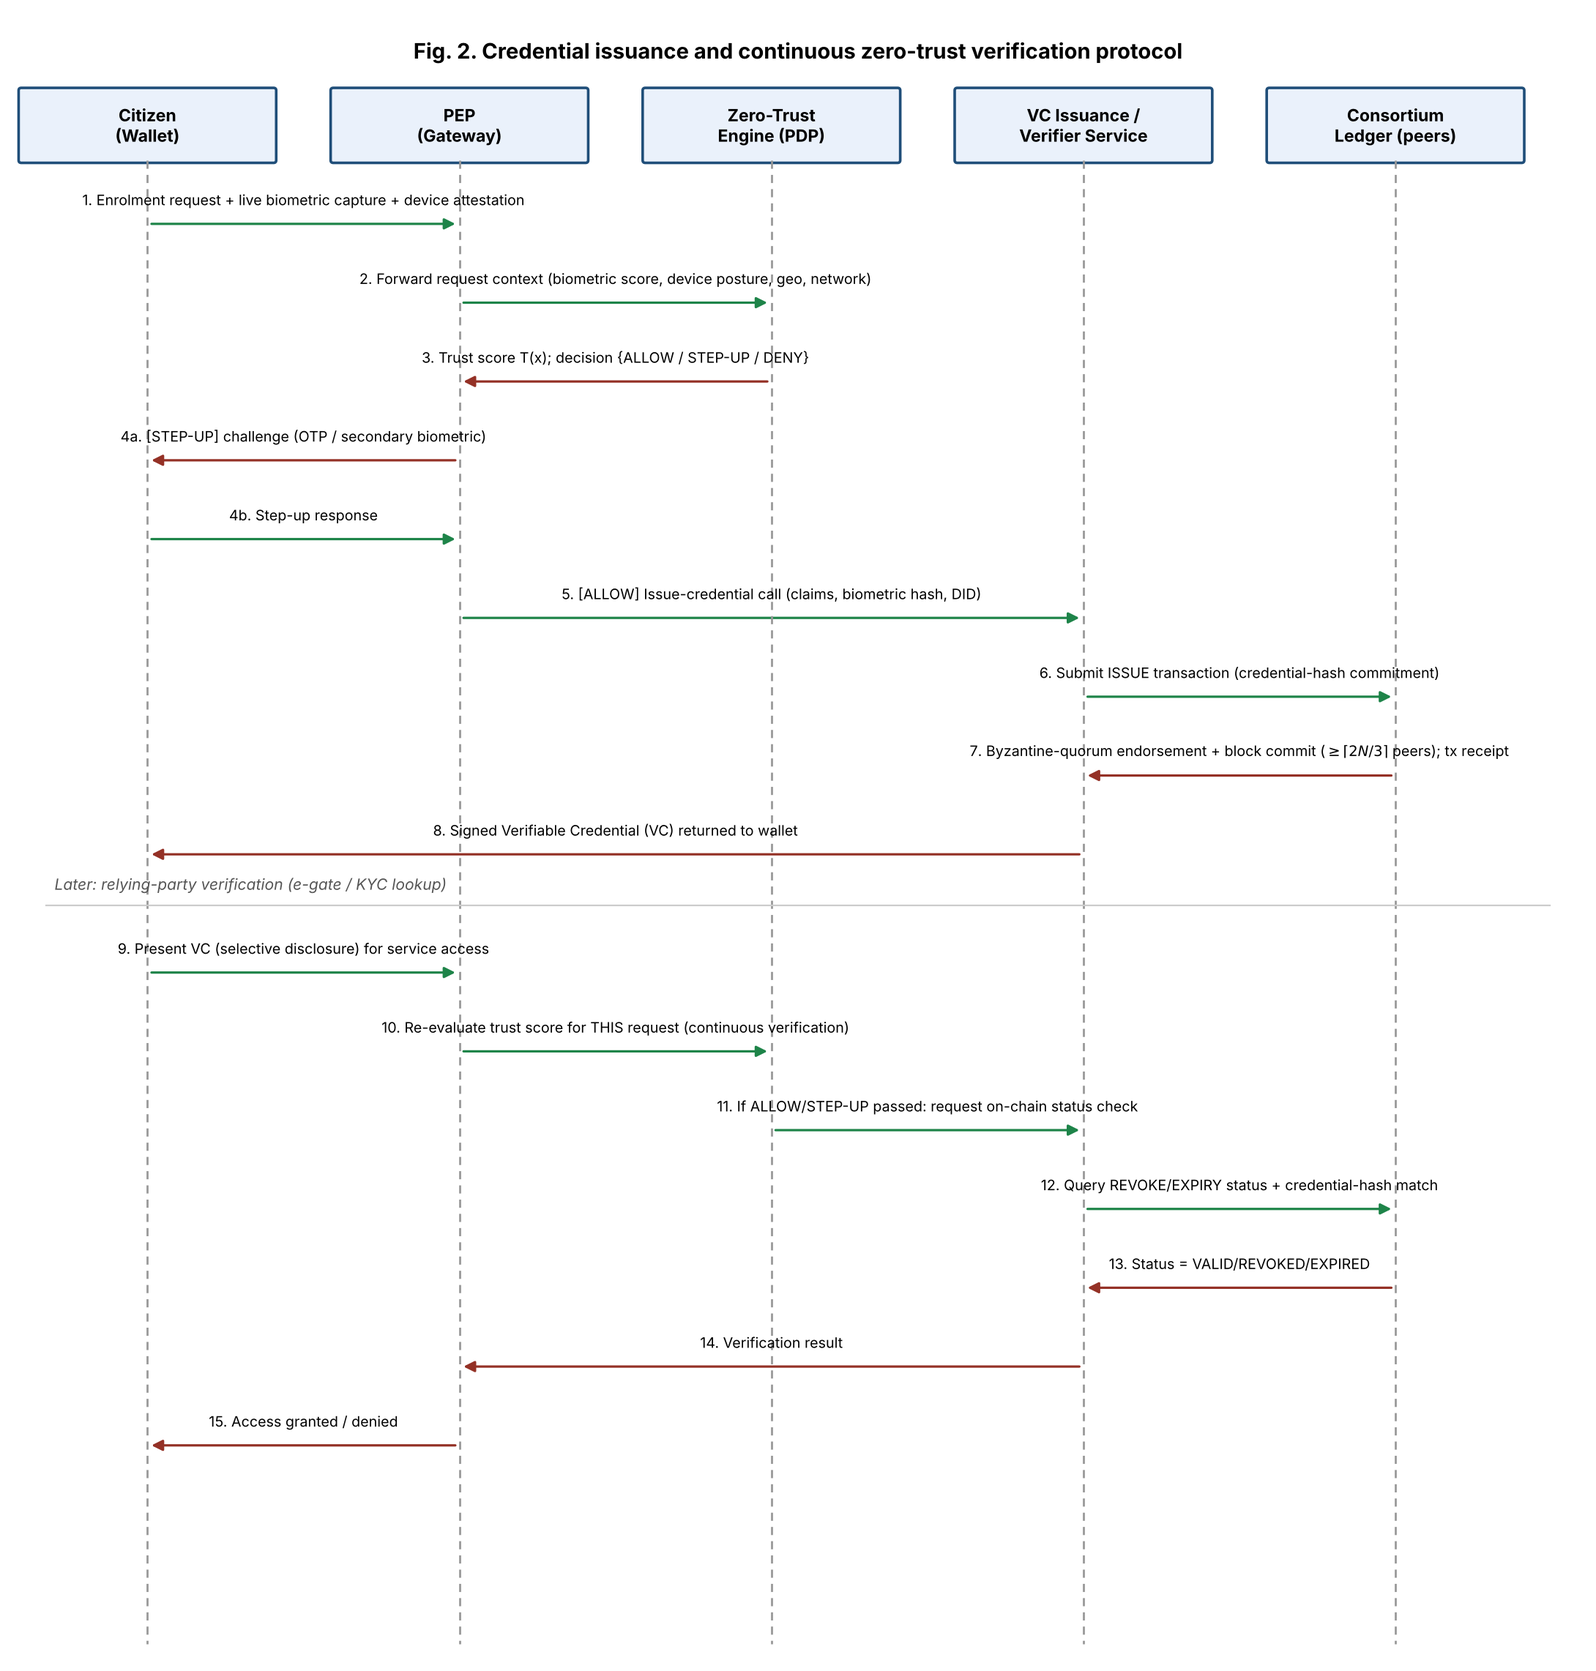
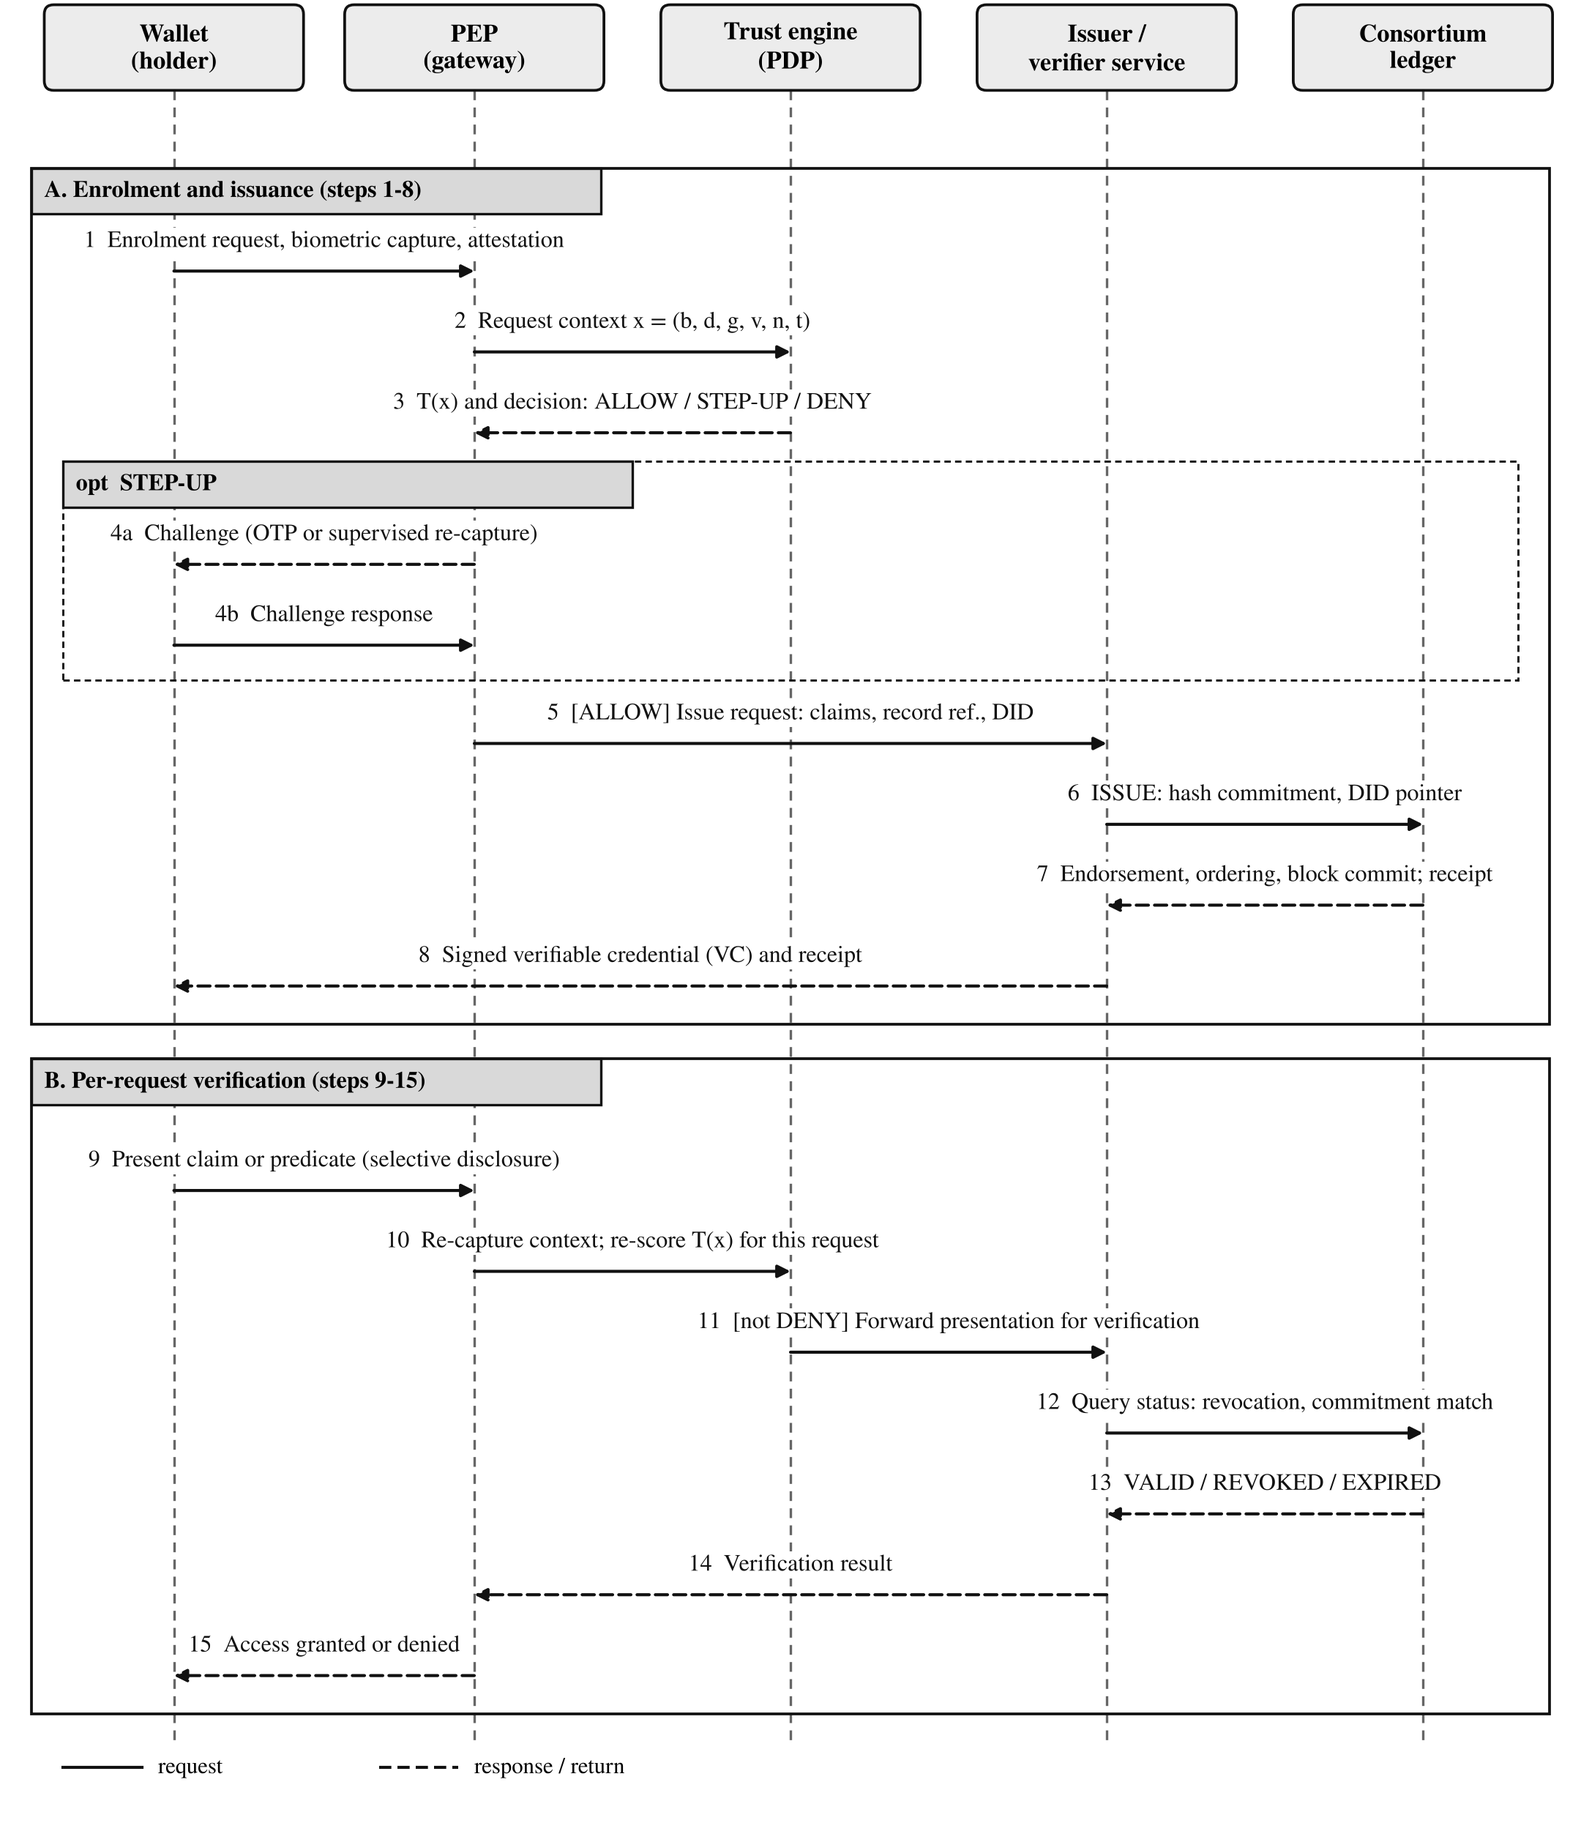
Redraw Fig. 1 and Fig. 2 in academic grayscale style
Claude-Session: https://claude.ai/code/session_01TBqWKFYaju92fTNdPFwbcp

diff --git a/code/fig1_architecture.py b/code/fig1_architecture.py
@@ -1,80 +1,65 @@
-import matplotlib
-matplotlib.use("Agg")
+"""Fig. 1: layered BZT-ID architecture (academic style: serif, grayscale, no embedded title).
+Solid border = implemented in the evaluated prototype (chaincode/ledger, trust-engine model); dashed = specified only."""
+import os, matplotlib; matplotlib.use("Agg")
 import matplotlib.pyplot as plt
-from matplotlib.patches import FancyBboxPatch, FancyArrowPatch
-import os
-
-OUT_FIG = os.path.join(os.path.dirname(__file__), "..", "figures")
-os.makedirs(OUT_FIG, exist_ok=True)
-
-fig, ax = plt.subplots(figsize=(11, 7.2), dpi=200)
-ax.set_xlim(0, 11)
-ax.set_ylim(0, 7.2)
-ax.axis("off")
-
-def box(x, y, w, h, text, fc="#eaf1fb", ec="#1f4e79", fontsize=8.6, weight="normal"):
-    b = FancyBboxPatch((x, y), w, h, boxstyle="round,pad=0.02,rounding_size=0.08",
-                        linewidth=1.3, edgecolor=ec, facecolor=fc)
-    ax.add_patch(b)
-    ax.text(x + w / 2, y + h / 2, text, ha="center", va="center", fontsize=fontsize,
-             weight=weight, wrap=True)
-    return (x, y, w, h)
-
-def arrow(p1, p2, text="", color="#333333", style="-|>", curve=0.0):
-    a = FancyArrowPatch(p1, p2, arrowstyle=style, mutation_scale=12,
-                         color=color, linewidth=1.1,
-                         connectionstyle=f"arc3,rad={curve}")
-    ax.add_patch(a)
-    if text:
-        mx, my = (p1[0] + p2[0]) / 2, (p1[1] + p2[1]) / 2
-        ax.text(mx, my + 0.10, text, fontsize=6.6, ha="center", color=color)
-
-# ---- Layer 1: Users / Devices ----
-ax.text(0.15, 6.95, "Layer 1 — Subject & Device", fontsize=9, weight="bold", color="#1f4e79")
-box(0.2, 6.05, 2.1, 0.7, "Citizen /\nOverseas applicant\n(mobile wallet)", fc="#fdf2e3", ec="#b9770e")
-box(2.55, 6.05, 2.1, 0.7, "Front-line officer\n(NADRA / DGIP\nterminal)", fc="#fdf2e3", ec="#b9770e")
-box(4.9, 6.05, 2.1, 0.7, "Relying-party service\n(bank / airline /\ne-gate)", fc="#fdf2e3", ec="#b9770e")
-box(7.25, 6.05, 3.55, 0.7, "IoT/biometric capture: fingerprint,\niris, face liveness sensors", fc="#fdf2e3", ec="#b9770e")
-
-# ---- Layer 2: Zero-Trust Policy Enforcement ----
-ax.text(0.15, 5.55, "Layer 2 — Zero-Trust Policy Enforcement (PEP/PDP)", fontsize=9, weight="bold", color="#1f4e79")
-box(0.2, 4.55, 3.35, 0.85, "Policy Enforcement Point (PEP)\nAPI gateway · mTLS · request context capture", fc="#eaf1fb")
-box(3.75, 4.55, 3.35, 0.85, "Continuous Trust Engine (PDP)\nBiometric, device, geo-velocity,\nbehaviour, network, time-risk fusion", fc="#eaf1fb")
-box(7.3, 4.55, 3.5, 0.85, "Policy Administrator\nRBAC/ABAC rules · step-up-auth\norchestration · SIEM feed", fc="#eaf1fb")
-
-# ---- Layer 3: DID / VC identity layer ----
-ax.text(0.15, 4.05, "Layer 3 — Decentralized Identity (DID / Verifiable Credential) Layer", fontsize=9, weight="bold", color="#1f4e79")
-box(0.2, 3.05, 2.6, 0.85, "DID Registry\n(W3C DID Core)\nsubject ↔ public-key doc", fc="#eafaf1", ec="#1e8449")
-box(3.0, 3.05, 2.9, 0.85, "VC Issuance Service\nCNIC / Passport / NICOP\ncredential templates", fc="#eafaf1", ec="#1e8449")
-box(6.1, 3.05, 2.4, 0.85, "Selective-Disclosure\nVerifier (ZKP)\nage/citizenship proofs", fc="#eafaf1", ec="#1e8449")
-box(8.7, 3.05, 2.1, 0.85, "Revocation\nRegistry\n(status list)", fc="#eafaf1", ec="#1e8449")
-
-# ---- Layer 4: Permissioned blockchain ----
-ax.text(0.15, 2.55, "Layer 4 — Permissioned Consortium Blockchain (Hyperledger-Fabric-style, PBFT)", fontsize=9, weight="bold", color="#1f4e79")
-box(0.2, 1.15, 2.15, 1.15, "NADRA\nRegistrar peer\n+ CA/MSP", fc="#fdecea", ec="#943126")
-box(2.5, 1.15, 2.15, 1.15, "DGIP Passport\nDirectorate peer\n+ CA/MSP", fc="#fdecea", ec="#943126")
-box(4.8, 1.15, 2.15, 1.15, "Bank / Telecom\nKYC notary peer", fc="#fdecea", ec="#943126")
-box(7.1, 1.15, 2.15, 1.15, "Independent\naudit / regulator\npeer (SBP/PTA)", fc="#fdecea", ec="#943126")
-box(9.4, 1.15, 1.4, 1.15, "Ordering\nservice\n(Raft/PBFT)", fc="#fdecea", ec="#943126")
-
-# ---- Off-chain encrypted store ----
-box(0.2, 0.1, 4.1, 0.75, "Off-chain encrypted vault (IPFS/HSM)\nraw biometrics & PII — never written on-chain", fc="#f4ecf7", ec="#6c3483")
-box(4.5, 0.1, 6.3, 0.75, "On-chain: only DID pointers, credential-hash commitments, issuance/verify/revoke events, audit trail (immutable)", fc="#f4ecf7", ec="#6c3483")
-
-# ---- arrows ----
-arrow((1.25, 6.05), (1.9, 5.4), "request + biometric capture")
-arrow((3.6, 6.05), (4.5, 5.4))
-arrow((6.0, 6.05), (5.4, 5.4))
-arrow((5.4, 4.55), (5.4, 3.9), "trust score / decision")
-arrow((4.4, 3.05), (2.0, 2.3), "issue tx")
-arrow((7.3, 3.05), (7.9, 2.3), "verify tx")
-arrow((8.9, 3.05), (8.9, 2.3), "revoke tx")
-arrow((1.3, 1.15), (1.6, 0.85), "")
-arrow((6.0, 1.15), (6.0, 0.85), "")
-
-ax.text(5.5, 7.08, "Fig. 1. Layered architecture of the proposed BZT-ID system", ha="center",
-        fontsize=10.5, weight="bold")
-
-fig.tight_layout()
-fig.savefig(os.path.join(OUT_FIG, "fig1_architecture.png"), bbox_inches="tight")
-print("saved fig1_architecture.png")
+from matplotlib.patches import FancyBboxPatch, FancyArrowPatch, Rectangle
+plt.rcParams.update({"font.family": "STIXGeneral", "mathtext.fontset": "stix", "font.size": 8})
+OUT = os.path.join(os.path.dirname(__file__), "..", "figures", "fig1_architecture.png")
+fig = plt.figure(figsize=(7.2, 6.55)); ax = fig.add_axes([0, 0, 1, 1]); ax.set_xlim(0, 100); ax.set_ylim(0, 91); ax.axis("off")
+INK = "#111111"
+def box(x, y, w, h, text, fill="#ffffff", dashed=False, fs=7.6, bold_first=True):
+    ax.add_patch(FancyBboxPatch((x, y), w, h, boxstyle="round,pad=0,rounding_size=0.8", fc=fill, ec=INK, lw=0.9, ls=(0, (3, 2)) if dashed else "-"))
+    lines = text.split("\n")
+    n = len(lines); lh = 2.45
+    for i, t in enumerate(lines):
+        ax.text(x + w / 2, y + h / 2 + (n / 2 - i - 0.5) * lh, t, ha="center", va="center", fontsize=fs, color=INK,
+                fontweight="bold" if (i == 0 and bold_first) else "normal")
+def band(y, h, num, name, fill):
+    ax.add_patch(Rectangle((0.5, y), 99, h, fc=fill, ec="#777777", lw=0.6))
+    ax.add_patch(Rectangle((0.5, y), 6.2, h, fc="#2b2b2b", ec="#2b2b2b"))
+    ax.text(3.6, y + h / 2, f"Layer {num}\n{name}", rotation=90, ha="center", va="center", color="white", fontsize=7.2, fontweight="bold", linespacing=1.15)
+def arrow(x0, y0, x1, y1, label=None, lx=1.2, ha="left", ls="-", fs=7.2):
+    ax.add_patch(FancyArrowPatch((x0, y0), (x1, y1), arrowstyle="-|>", mutation_scale=9, lw=1.0, color=INK, ls=ls, shrinkA=0, shrinkB=0))
+    if label: ax.text((x0 + x1) / 2 + lx, (y0 + y1) / 2, label, ha=ha, va="center", fontsize=fs, style="italic", color=INK)
+# ---- bands
+band(71.5, 15, 1, "Subject/device", "#f4f4f4")
+band(52.5, 15, 2, "Zero trust", "#e9e9e9")
+band(33.5, 15, 3, "DID / VC", "#f4f4f4")
+band(12.5, 17.5, 4, "Ledger", "#e1e1e1")
+# Layer 1
+x0, w, g = 8.6, 21.3, 1.9
+for i, t in enumerate(["Citizen / overseas holder\nmobile wallet, local biometric\ncapture, DID keys",
+                       "Front-line officer\nNADRA / DGIP terminal",
+                       "Relying party\nbank, telecom, airline,\ne-gate",
+                       "Capture sensors\nfingerprint, iris, face\n(liveness)"]):
+    box(x0 + i * (w + g), 73.2, w, 11.6, t, "#ffffff")
+# Layer 2
+box(8.6, 54.2, 27, 11.6, "Policy Enforcement Point\nAPI gateway, mutual TLS,\nrequest-context capture", "#ffffff", dashed=True)
+box(39.1, 54.2, 28.6, 11.6, "Continuous Trust Engine (PDP)\n$T(x)=\\Sigma_k\\,w_k c_k(x)$, six factors:\nbiometric, device, geo, behaviour,\nnetwork, time", "#ffffff")
+box(71.2, 54.2, 28, 11.6, "Policy Administrator\nthresholds, step-up\norchestration (OTP, re-capture)", "#ffffff", dashed=True)
+arrow(35.6, 61.2, 39.1, 61.2); arrow(39.1, 58.0, 35.6, 58.0); arrow(71.2, 59.6, 67.7, 59.6)
+# Layer 3
+for i, t in enumerate(["DID Registry\nW3C DID Core\nDID to public-key document", "VC Issuance Service\nCNIC / NICOP / passport\ncredential templates",
+                       "Selective-Disclosure Verifier\nBBS+ / zero-knowledge\npredicate proofs", "Revocation Registry\nbitstring status list\n(target design)"]):
+    box(x0 + i * (w + g), 35.2, w, 11.6, t, "#ffffff", dashed=True)
+# Layer 4
+bw, bg = 17.0, 1.55
+for i, (t, d) in enumerate([("NADRA\nregistrar peer\nMSP / CA", False), ("DGIP\npassport peer\nMSP / CA", False), ("Notary peers\nbanks, telecoms\n(KYC)", False),
+                            ("Audit peers\nregulators\n(e.g. SBP, PTA)", False), ("Ordering service\nRaft (tested), SmartBFT\n(N ≥ 4)", False)]):
+    box(8.6 + i * (bw + bg), 14.2, bw, 14.2, t, "#ffffff")
+# ---- inter-layer arrows
+arrow(21.0, 73.2, 21.0, 65.8, "requests + biometric capture", lx=1.0)
+arrow(54.05, 54.2, 54.05, 46.8, "ALLOW / STEP-UP / DENY gates credential operations", lx=1.0)
+arrow(54.05, 35.2, 54.05, 28.4, "issue / verify / revoke transactions", lx=1.0)
+# ---- data minimisation row
+ax.plot([0.5, 99.5], [10.4, 10.4], color="#555555", lw=0.8, ls=(0, (4, 3)))
+ax.text(50, 11.35, "on-chain / off-chain data-minimization boundary", ha="center", va="center", fontsize=7.2, style="italic", color="#333333")
+box(0.5, 0.8, 47, 8.2, "Off-chain encrypted vault (HSM-backed)\nraw biometrics and PII; never written on-chain", "#ffffff", dashed=True)
+box(52.5, 0.8, 47, 8.2, "On-chain ledger state\nDID pointers, salted claim commitments, lifecycle events", "#ffffff")
+arrow(76, 12.5, 76, 9.0)
+# legend
+ax.add_patch(FancyBboxPatch((8.6, 88.4), 3.2, 1.8, boxstyle="round,pad=0,rounding_size=0.3", fc="white", ec=INK, lw=0.9))
+ax.text(12.6, 89.3, "implemented in the evaluated prototype", va="center", fontsize=7.2)
+ax.add_patch(FancyBboxPatch((46.5, 88.4), 3.2, 1.8, boxstyle="round,pad=0,rounding_size=0.3", fc="white", ec=INK, lw=0.9, ls=(0, (3, 2))))
+ax.text(50.5, 89.3, "specified in the design, not built as an integrated service", va="center", fontsize=7.2)
+fig.savefig(OUT, dpi=300, facecolor="white"); print("wrote", OUT)

diff --git a/code/fig2_sequence.py b/code/fig2_sequence.py
@@ -1,85 +1,64 @@
-import matplotlib
-matplotlib.use("Agg")
+"""Fig. 2: credential issuance and per-request zero-trust verification (academic style: serif, grayscale, no embedded title)."""
+import os, matplotlib; matplotlib.use("Agg")
 import matplotlib.pyplot as plt
-from matplotlib.patches import FancyBboxPatch, FancyArrowPatch
-import os
-
-OUT_FIG = os.path.join(os.path.dirname(__file__), "..", "figures")
-os.makedirs(OUT_FIG, exist_ok=True)
-
-actors = ["Citizen\n(Wallet)", "PEP\n(Gateway)", "Zero-Trust\nEngine (PDP)", "VC Issuance /\nVerifier Service", "Consortium\nLedger (peers)"]
-n = len(actors)
-ROW_H = 0.62
-N_MSGS_TOTAL = 9 + 7  # message blocks defined below
-top = 1.0 + ROW_H * N_MSGS_TOTAL + 1.6
-bottom = 0.5
-fig, ax = plt.subplots(figsize=(11, top * 0.92), dpi=200)
-xs = [1 + i * 2.35 for i in range(n)]
-
-ax.set_xlim(0, xs[-1] + 1.4)
-ax.set_ylim(bottom - 0.3, top + 0.6)
-ax.axis("off")
-
-for x, name in zip(xs, actors):
-    b = FancyBboxPatch((x - 0.95, top - 0.55), 1.9, 0.55, boxstyle="round,pad=0.02",
-                        linewidth=1.3, edgecolor="#1f4e79", facecolor="#eaf1fb")
-    ax.add_patch(b)
-    ax.text(x, top - 0.275, name, ha="center", va="center", fontsize=8.3, weight="bold")
-    ax.plot([x, x], [top - 0.55, bottom - 0.2], color="#999999", linewidth=1, linestyle=(0, (4, 3)))
-
-messages = [
-    (0, 1, "1. Enrolment request + live biometric capture + device attestation"),
-    (1, 2, "2. Forward request context (biometric score, device posture, geo, network)"),
-    (2, 1, "3. Trust score T(x); decision {ALLOW / STEP-UP / DENY}"),
-    (1, 0, "4a. [STEP-UP] challenge (OTP / secondary biometric)"),
-    (0, 1, "4b. Step-up response"),
-    (1, 3, "5. [ALLOW] Issue-credential call (claims, biometric hash, DID)"),
-    (3, 4, "6. Submit ISSUE transaction (credential-hash commitment)"),
-    (4, 3, "7. Byzantine-quorum endorsement + block commit ($\\geq\\lceil2N/3\\rceil$ peers); tx receipt"),
-    (3, 0, "8. Signed Verifiable Credential (VC) returned to wallet"),
-]
-
-y = top - 1.05
-step_h = ROW_H
-for (src, dst, text) in messages:
-    x1, x2 = xs[src], xs[dst]
-    color = "#1e8449" if dst > src else "#943126"
-    arr = FancyArrowPatch((x1, y), (x2, y), arrowstyle="-|>", mutation_scale=11,
-                           color=color, linewidth=1.15)
-    ax.add_patch(arr)
-    mx = (x1 + x2) / 2
-    ax.text(mx, y + 0.12, text, ha="center", va="bottom", fontsize=7.1)
-    y -= step_h
-
-# Post-issuance verification / relying-party flow (second phase)
-ax.axhline(y + step_h * 0.35, color="#cccccc", linewidth=0.8, xmin=0.02, xmax=0.98)
-ax.text(0.3, y + step_h * 0.55, "Later: relying-party verification (e-gate / KYC lookup)", fontsize=7.6,
-         style="italic", color="#555555")
-
-messages2 = [
-    (0, 1, "9. Present VC (selective disclosure) for service access"),
-    (1, 2, "10. Re-evaluate trust score for THIS request (continuous verification)"),
-    (2, 3, "11. If ALLOW/STEP-UP passed: request on-chain status check"),
-    (3, 4, "12. Query REVOKE/EXPIRY status + credential-hash match"),
-    (4, 3, "13. Status = VALID/REVOKED/EXPIRED"),
-    (3, 1, "14. Verification result"),
-    (1, 0, "15. Access granted / denied"),
-]
-y -= step_h * 0.5
-step_h2 = ROW_H
-for (src, dst, text) in messages2:
-    x1, x2 = xs[src], xs[dst]
-    color = "#1e8449" if dst > src else "#943126"
-    arr = FancyArrowPatch((x1, y), (x2, y), arrowstyle="-|>", mutation_scale=11,
-                           color=color, linewidth=1.15)
-    ax.add_patch(arr)
-    mx = (x1 + x2) / 2
-    ax.text(mx, y + 0.12, text, ha="center", va="bottom", fontsize=7.1)
-    y -= step_h2
-
-ax.text(xs[-1] / 2 + 0.7, top + 0.25, "Fig. 2. Credential issuance and continuous zero-trust verification protocol",
-        ha="center", fontsize=10.5, weight="bold")
-
-fig.tight_layout()
-fig.savefig(os.path.join(OUT_FIG, "fig2_sequence.png"), bbox_inches="tight")
-print("saved fig2_sequence.png")
+from matplotlib.patches import FancyBboxPatch, FancyArrowPatch, Rectangle
+plt.rcParams.update({"font.family": "STIXGeneral", "mathtext.fontset": "stix", "font.size": 8})
+OUT = os.path.join(os.path.dirname(__file__), "..", "figures", "fig2_sequence.png")
+INK = "#111111"
+fig = plt.figure(figsize=(7.2, 8.3)); ax = fig.add_axes([0, 0, 1, 1]); ax.set_xlim(0, 100); ax.set_ylim(-4, 111); ax.axis("off")
+P = {"W": 11, "E": 30, "D": 50, "I": 70, "L": 90}
+names = {"W": "Wallet\n(holder)", "E": "PEP\n(gateway)", "D": "Trust engine\n(PDP)", "I": "Issuer /\nverifier service", "L": "Consortium\nledger"}
+top, bot = 105.5, -2.0
+for k, x in P.items():
+    ax.add_patch(FancyBboxPatch((x - 8.2, top - 0.2), 16.4, 5.4, boxstyle="round,pad=0,rounding_size=0.6", fc="#ececec", ec=INK, lw=0.9))
+    ax.text(x, top + 2.5, names[k], ha="center", va="center", fontsize=8.2, fontweight="bold", linespacing=1.15)
+    ax.plot([x, x], [top - 0.2, bot], color="#666666", lw=0.8, ls=(0, (4, 3)), zorder=0)
+y = [top - 3.5]
+def msg(a, b, n, text, ret=False, dy=5.1):
+    y[0] -= dy
+    yy = y[0]
+    xa, xb = P[a], P[b]
+    ax.add_patch(FancyArrowPatch((xa, yy), (xb, yy), arrowstyle="-|>", mutation_scale=8.5, lw=1.0, color=INK, ls=(0, (4, 2)) if ret else "-", shrinkA=0, shrinkB=0, zorder=3))
+    mx = (xa + xb) / 2
+    ax.text(mx, yy + 1.15, f"{n}  {text}", ha="center", va="bottom", fontsize=7.7, color=INK, bbox=dict(fc="white", ec="none", pad=0.6), zorder=4)
+def frame(y0, y1, label, x0=2, x1=98, fill="none", lw=0.9, ls="-"):
+    ax.add_patch(Rectangle((x0, y1), x1 - x0, y0 - y1, fc=fill, ec=INK, lw=lw, ls=ls, zorder=1))
+    ax.add_patch(Rectangle((x0, y0 - 2.9), 15.5 if len(label) < 12 else 36, 2.9, fc="#d9d9d9", ec=INK, lw=0.8, zorder=2))
+    ax.text(x0 + 0.8, y0 - 1.45, label, ha="left", va="center", fontsize=7.7, fontweight="bold", zorder=3)
+# ---------------- Phase A
+yA0 = y[0] - 1.6
+y[0] -= 3.0
+msg("W", "E", "1", "Enrolment request, biometric capture, attestation")
+msg("E", "D", "2", "Request context x = (b, d, g, v, n, t)")
+msg("D", "E", "3", "T(x) and decision: ALLOW / STEP-UP / DENY", ret=True)
+yo0 = y[0] - 1.8
+y[0] -= 3.2
+msg("E", "W", "4a", "Challenge (OTP or supervised re-capture)", ret=True)
+msg("W", "E", "4b", "Challenge response")
+yo1 = y[0] - 2.2
+msg("E", "I", "5", "[ALLOW] Issue request: claims, record ref., DID", dy=6.2)
+msg("I", "L", "6", "ISSUE: hash commitment, DID pointer")
+msg("L", "I", "7", "Endorsement, ordering, block commit; receipt", ret=True)
+msg("I", "W", "8", "Signed verifiable credential (VC) and receipt", ret=True)
+yA1 = y[0] - 2.4
+frame(yA0, yA1, "A. Enrolment and issuance (steps 1-8)")
+frame(yo0, yo1, "opt  STEP-UP", x0=4, x1=96, fill="none", lw=0.7, ls=(0, (3, 2)))
+# ---------------- Phase B
+y[0] = yA1 - 3.2
+yB0 = y[0] + 1.0
+y[0] -= 2.2
+msg("W", "E", "9", "Present claim or predicate (selective disclosure)")
+msg("E", "D", "10", "Re-capture context; re-score T(x) for this request")
+msg("D", "I", "11", "[not DENY] Forward presentation for verification")
+msg("I", "L", "12", "Query status: revocation, commitment match")
+msg("L", "I", "13", "VALID / REVOKED / EXPIRED", ret=True)
+msg("I", "E", "14", "Verification result", ret=True)
+msg("E", "W", "15", "Access granted or denied", ret=True)
+yB1 = y[0] - 2.4
+frame(yB0, yB1, "B. Per-request verification (steps 9-15)")
+# legend
+ax.add_patch(Rectangle((0,-4),100,5.2,fc="white",ec="none",zorder=5))
+ax.plot([4, 9], [yB1 - 3.4, yB1 - 3.4], color=INK, lw=1.0,zorder=6); ax.text(10, yB1 - 3.4, "request", va="center", fontsize=7.4, zorder=6)
+ax.plot([24, 29], [yB1 - 3.4, yB1 - 3.4], color=INK, lw=1.0, ls=(0, (4, 2)), zorder=6); ax.text(30, yB1 - 3.4, "response / return", va="center", fontsize=7.4, zorder=6)
+print("last y", yB1 - 3.4)
+fig.savefig(OUT, dpi=300, facecolor="white"); print("wrote", OUT)
